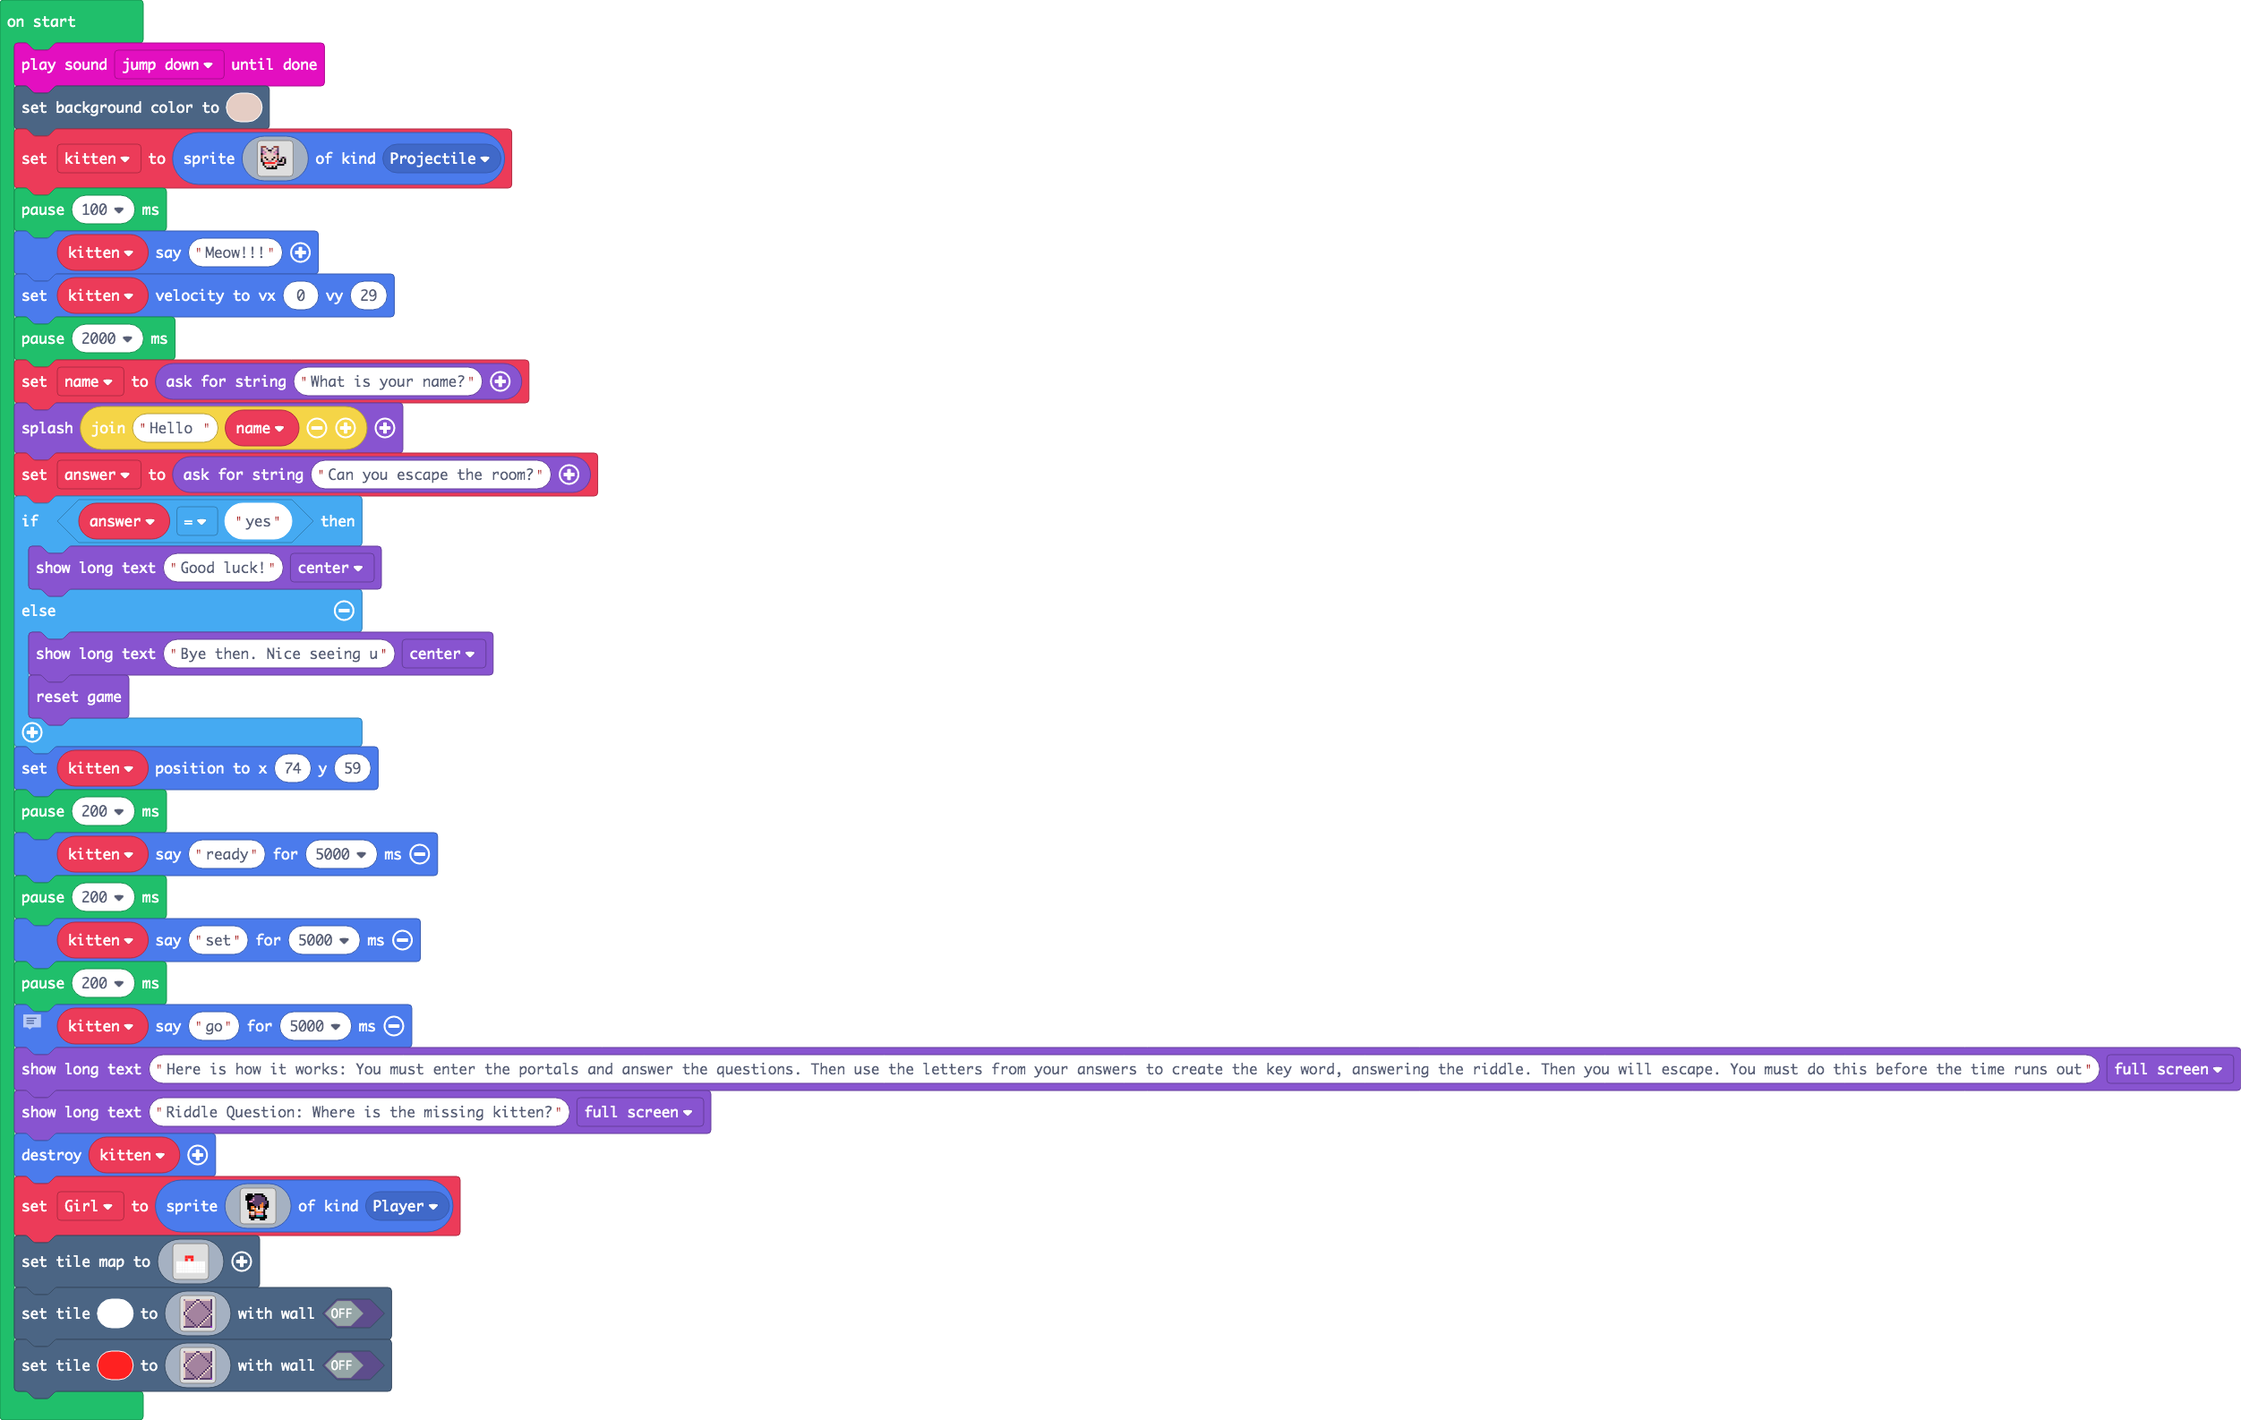
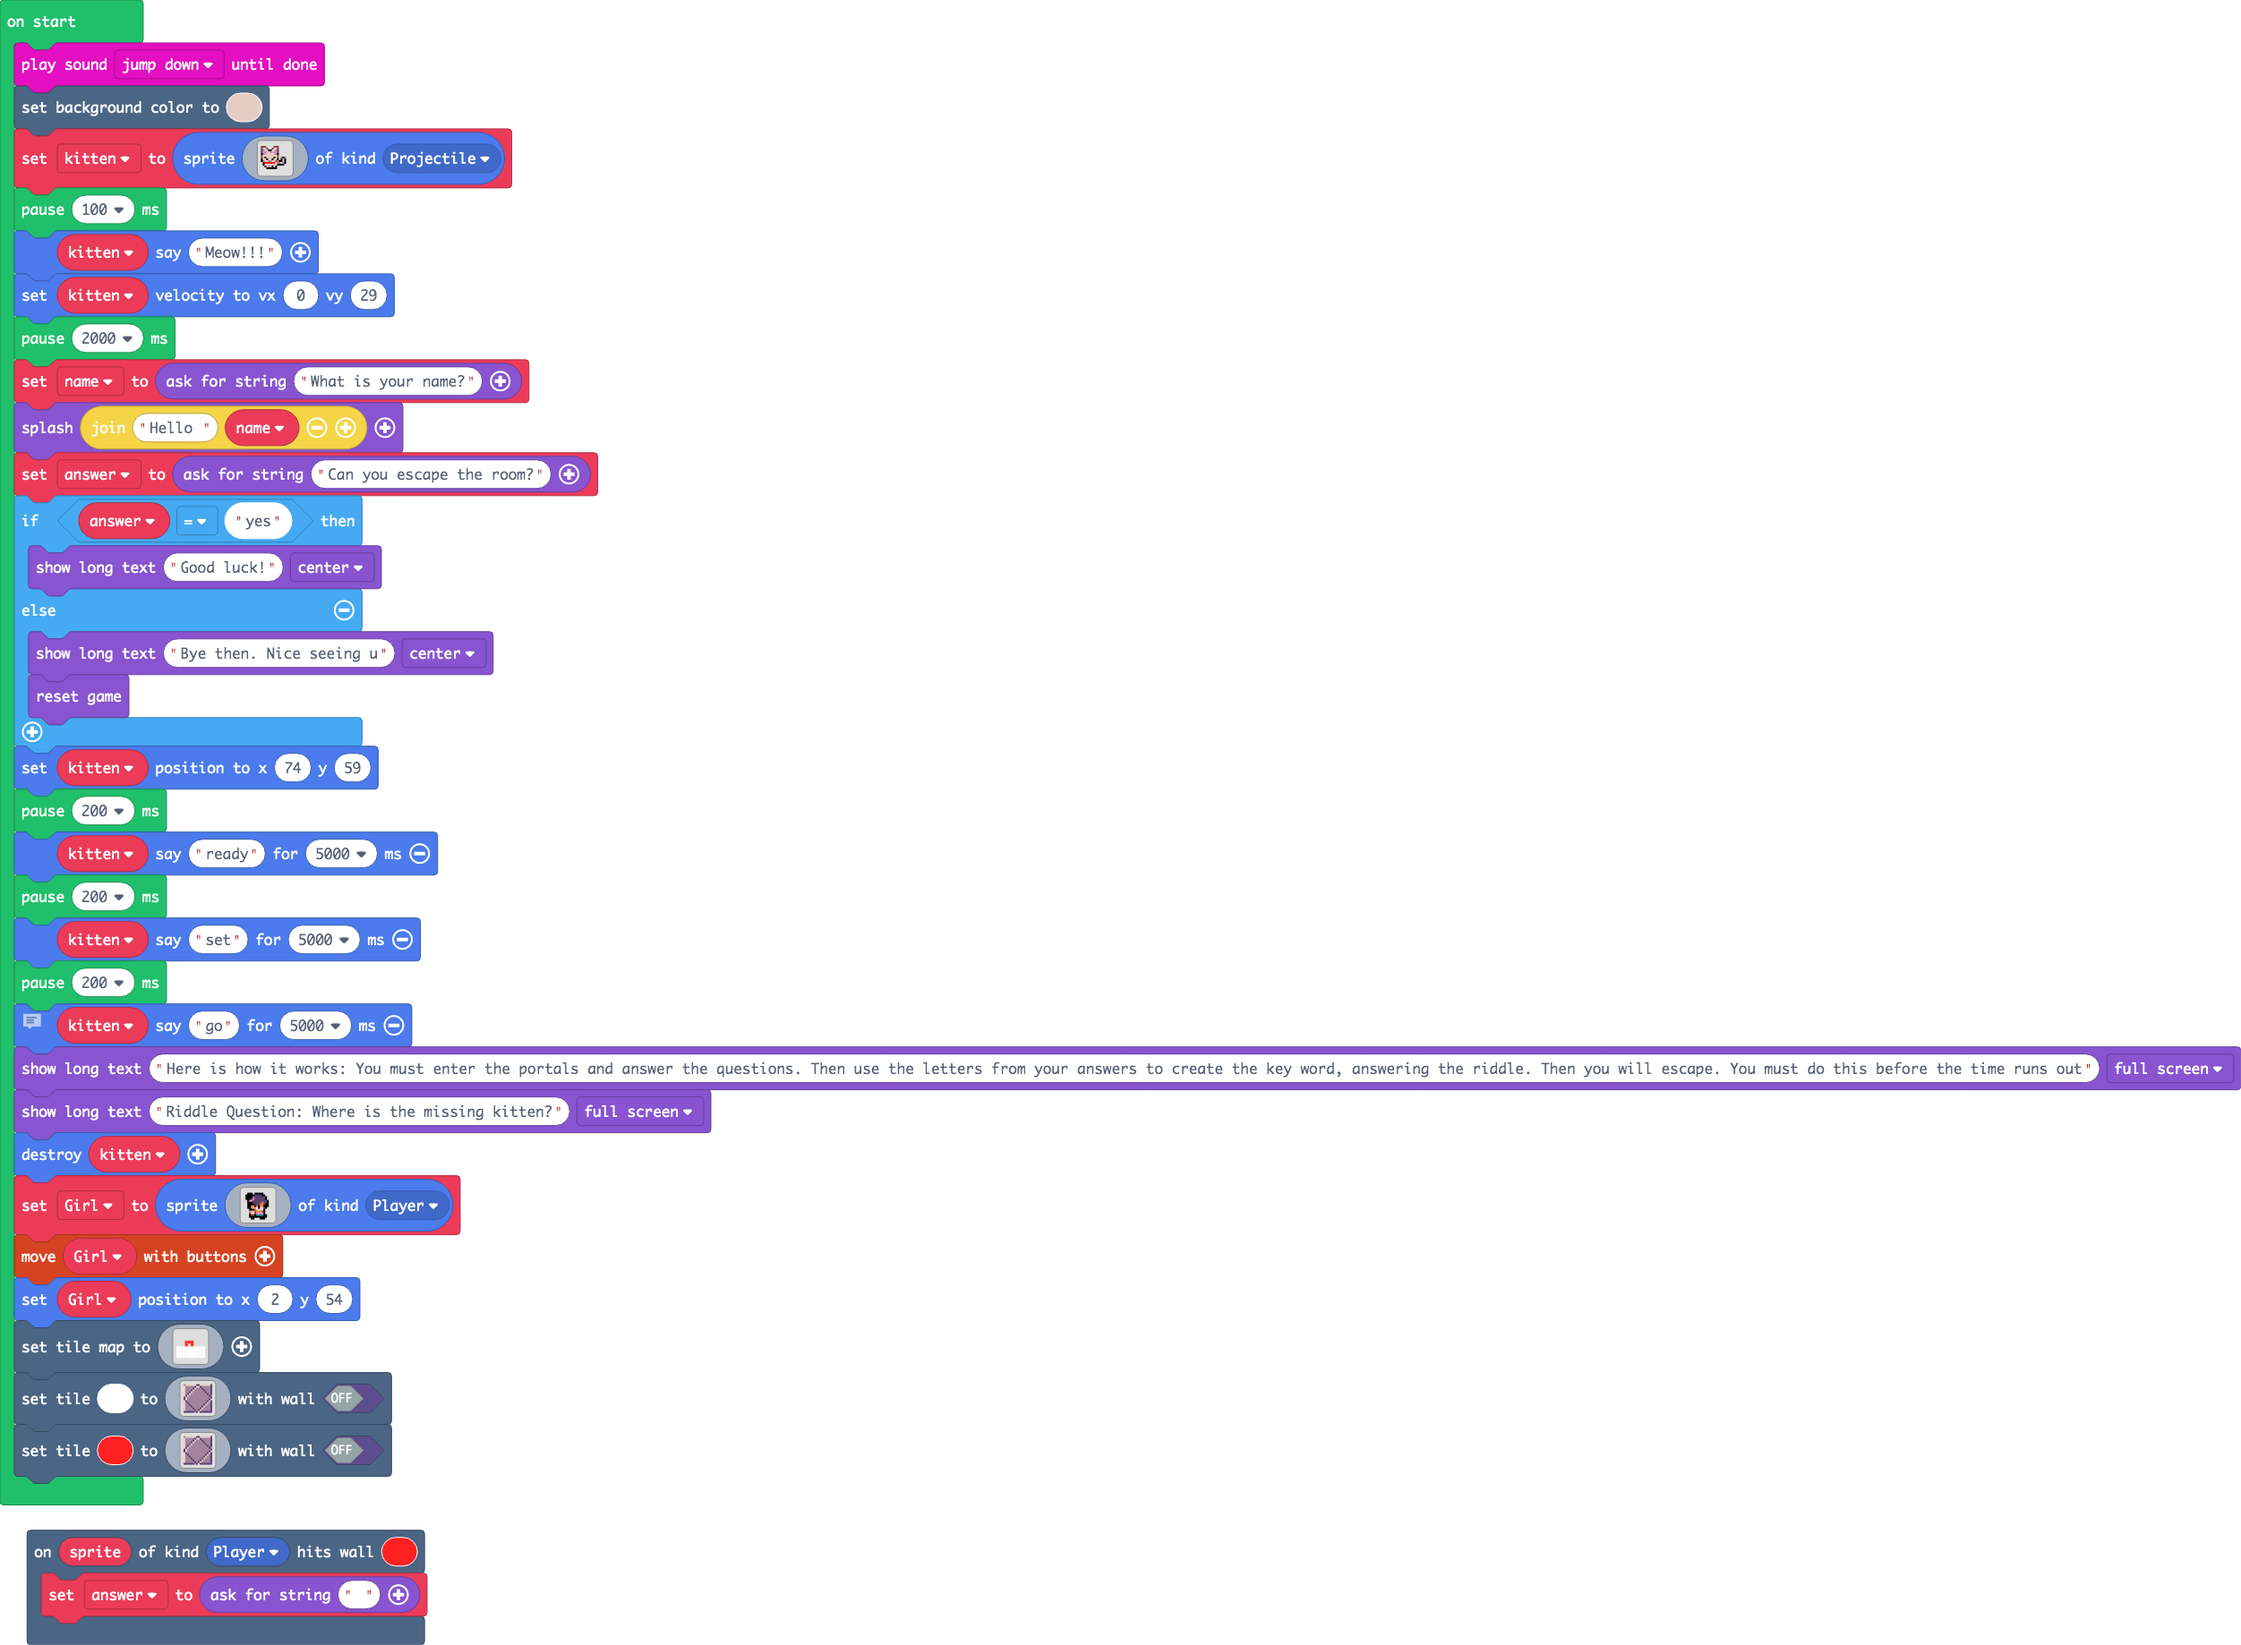
Update main.blocks, main.ts

Changed region(s): [[0.0, 0.0, 1.0, 1.0]]

diff --git a/main.ts b/main.ts
@@ -3,6 +3,10 @@ enum ActionKind {
     Idle,
     Jumping
 }
+scene.onHitTile(SpriteKind.Player, 2, function (sprite) {
+    answer = game.askForString("")
+})
+let answer = ""
 music.jumpDown.playUntilDone()
 scene.setBackgroundColor(13)
 let kitten = sprites.create(img`
@@ -29,7 +33,7 @@ kitten.setVelocity(0, 29)
 pause(2000)
 let name = game.askForString("What is your name?")
 game.splash("Hello " + name)
-let answer = game.askForString("Can you escape the room?")
+answer = game.askForString("Can you escape the room?")
 if (answer == "yes") {
     game.showLongText("Good luck!", DialogLayout.Center)
 } else {
@@ -67,6 +71,8 @@ f f f c 3 c c c c c c f . .
 . . f f f f f f f f f f . . 
 . . . f f . . . f f f . . . 
 `, SpriteKind.Player)
+controller.moveSprite(Girl)
+Girl.setPosition(2, 54)
 scene.setTileMap(img`
 . . . . . . . . . . 
 . . . . . . . . . . 
